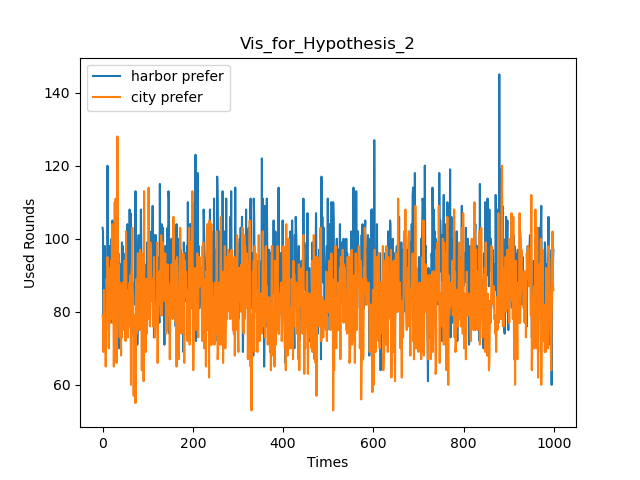
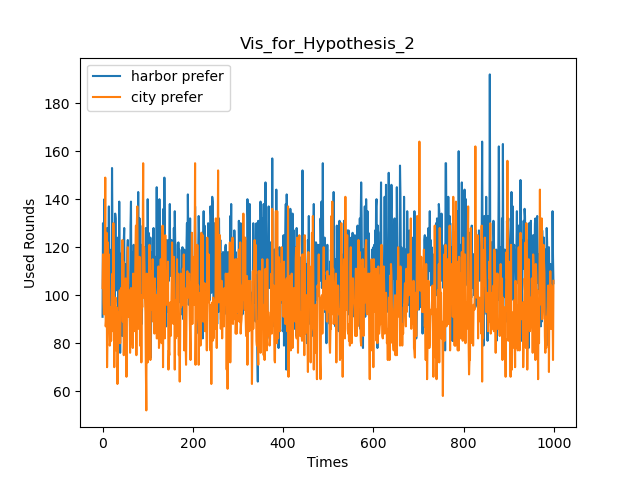
fix negative problem and overflow problem

diff --git a/Catan_basic.py b/Catan_basic.py
@@ -355,7 +355,7 @@ def build_a_city(player, point_probability, harbor_point_list):
                 if need_res == 0:
                     continue
                 if idx != need_id:
-                    cur_res = int(player.resources_list[idx] - needed_dict[idx] / trade_rate)
+                    cur_res = int((player.resources_list[idx] - needed_dict[idx]) / trade_rate)
                     trans_res = min(cur_res, need_res)
                     player.resources_list[idx] -= trans_res * trade_rate
                     player.resources_list[need_id] += trans_res
@@ -405,7 +405,7 @@ def build_a_settlement(player, point_probability, pp, harbor_point_list):
                 if need_res == 0:
                     continue
                 if idx != need_id:
-                    cur_res = int(player.resources_list[idx] - needed_dict[idx] / trade_rate)
+                    cur_res = int((player.resources_list[idx] - needed_dict[idx]) / trade_rate)
                     trans_res = min(cur_res, need_res)
                     player.resources_list[idx] -= trans_res * trade_rate
                     player.resources_list[need_id] += trans_res
@@ -475,7 +475,7 @@ def build_a_road(player, point_probability, pp, harbor_point_list, special_point
                     if need_res == 0:
                         continue
                     if idx != need_id:
-                        cur_res = int(player.resources_list[idx] - needed_dict[idx] / trade_rate)
+                        cur_res = int((player.resources_list[idx] - needed_dict[idx]) / trade_rate)
                         trans_res = min(cur_res, need_res)
                         player.resources_list[idx] -= trans_res * trade_rate
                         player.resources_list[need_id] += trans_res
@@ -569,7 +569,10 @@ def settlement_build_prefer(player: Player, terrain_dict, point_probability, pp,
 
     # check if resource available for upgrading a city: while loop
     ## can only upgrade a city when all settlement is built, number of settlement reach 5
-    if len(player.settlements) == 5:
+    if len(player.settlements) == 5 or player.road_num == 15:
+        # two possible situation to consider upgrade to a city:
+        #     1. the settlement reaches highest demands
+        #     2. no more road to build, but have settlement ungraded
         while city_possible(player, harbor_point_list):
             build_a_city(player, point_probability, harbor_point_list)
             # check if resource available for building a settlement: while loop
